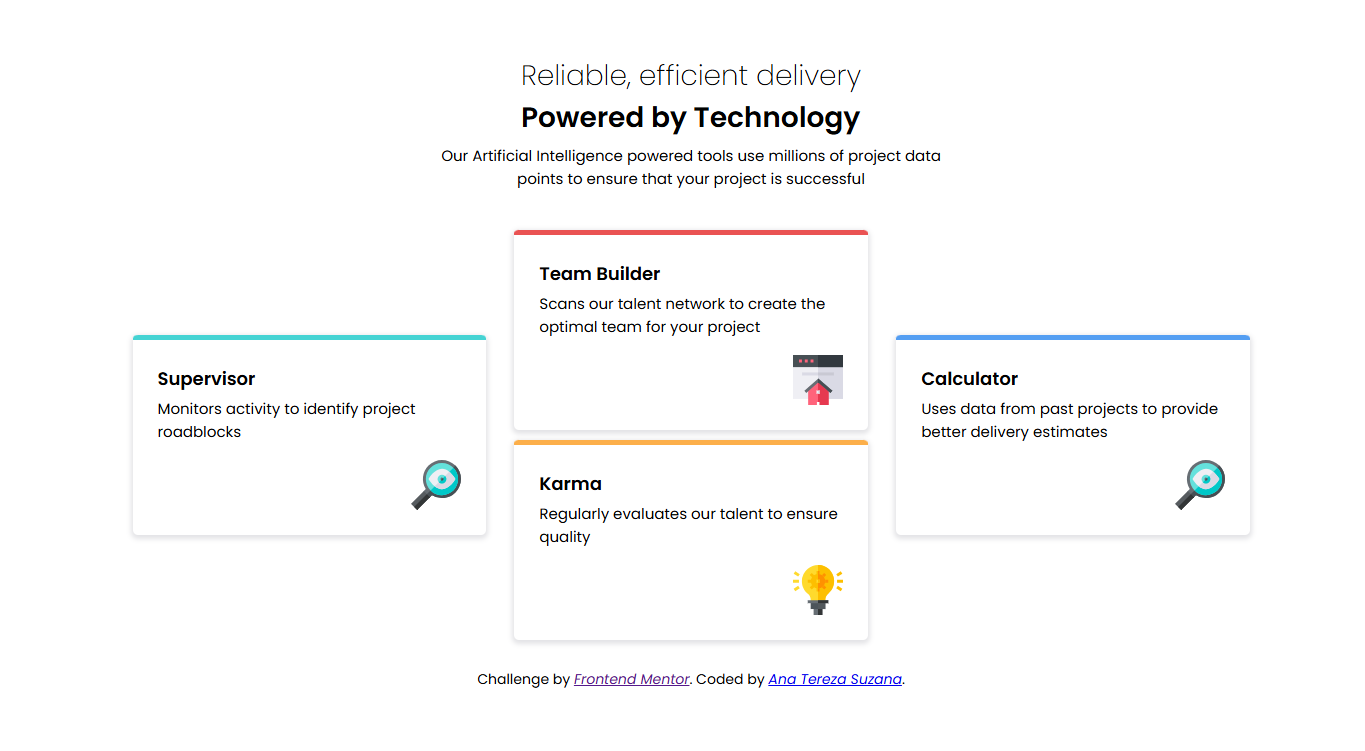
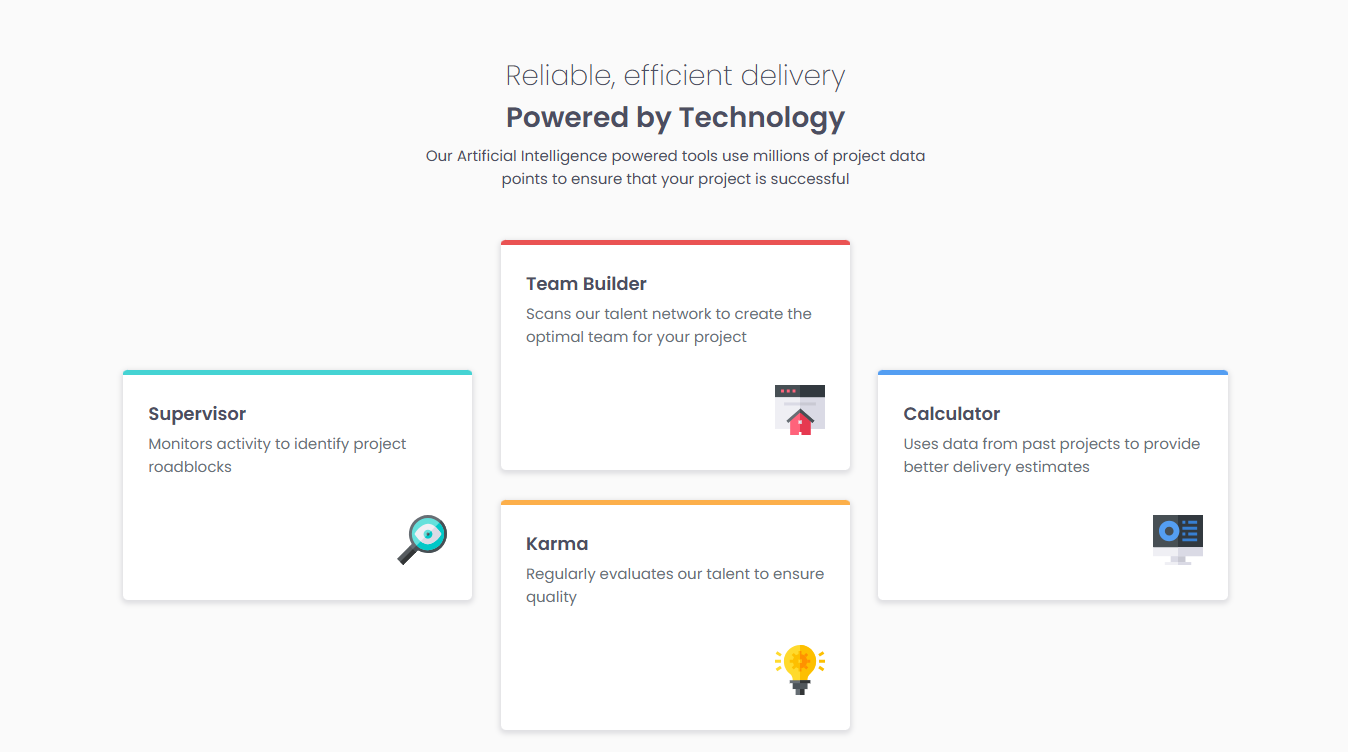
updated readme and text colors

diff --git a/styles/styles.css b/styles/styles.css
@@ -120,7 +120,11 @@ footer{
     margin-bottom: 5px;
     text-align: center;
 }
+.attribution a{
+    color: hsl(234, 12%, 34%);
+    font-weight: 600;
+}
 .attribution a:hover{
     font-size: 16px;
-    color: brown;
+    color: rgb(68, 17, 17);
 }

diff --git a/README.md b/README.md
@@ -25,8 +25,6 @@ Users should be able to:
 
 ![alt text](image.png)
 
-This is a screenshot of my solution. 
-
 ### Links
 
 - Solution URL: [https://www.frontendmentor.io/solutions/responsive-web-page-with-css-grid-5QbpyhYf6Z](https://www.frontendmentor.io/solutions/responsive-web-page-with-css-grid-5QbpyhYf6Z)
